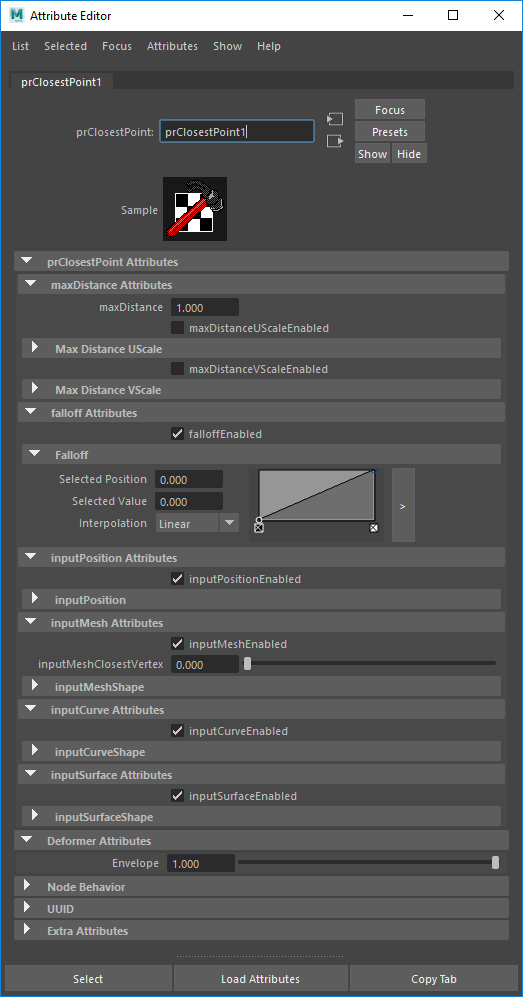
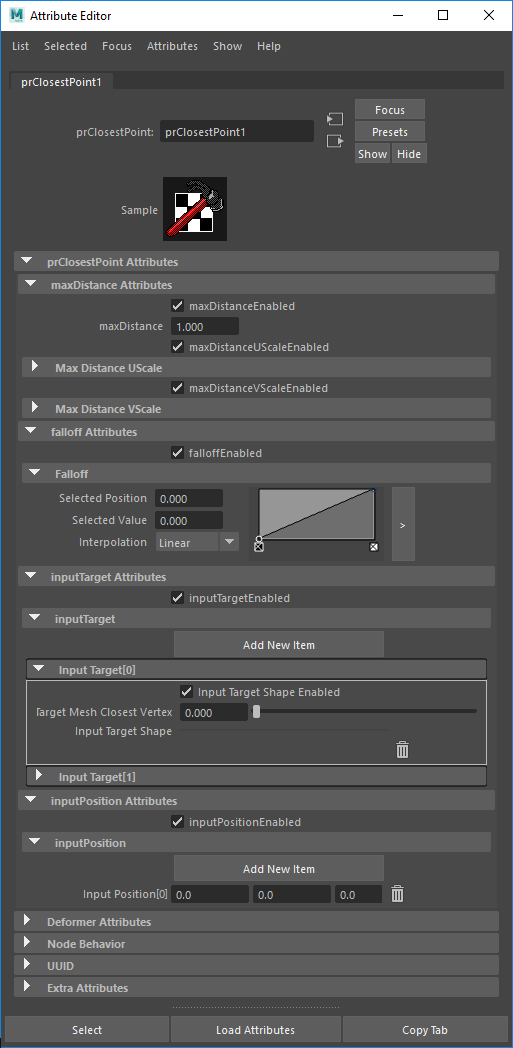
deformation local functions, updated doc pictures

diff --git a/prmaya/plugins/prClosestPoint.py b/prmaya/plugins/prClosestPoint.py
@@ -1,6 +1,6 @@
 """
 DESCRIPTION
-Deformer that moves points to closest: position / mesh shape or vertex / curve shape / nurbs-surface shape.
+Deformer that moves points to closest: position / mesh shape or mesh vertex / nurbs-curve shape / nurbs-surface shape.
 
 USE CASES
 - Modeling: Interactively snap vertices between meshes (inputTargetMeshClosestVertex attribute)
@@ -44,7 +44,6 @@ https://pazrot3d.blogspot.com/2018/10/prclosestpointpy-making-of.html
 https://www.paypal.com/cgi-bin/webscr?cmd=_s-xclick&hosted_button_id=7X4EJ8Z7NUSQW
 
 TODO
-- main deformation loop refactor
 - update doc images
 - can maxDistanceWeight be a child of weightList?
 - weightMap and inputPositions should show up in node editor
@@ -177,7 +176,6 @@ class prClosestPoint(OpenMayaMPx.MPxDeformerNode):
         
         prClosestPoint.inputTargetShapeEnabled = numericAttr.create('inputTargetShapeEnabled', 'inputTargetShapeEnabled', om.MFnNumericData.kBoolean, True)
         numericAttr.setKeyable(True)
-        prClosestPoint.addAttribute(prClosestPoint.inputTargetShapeEnabled)
         
         prClosestPoint.inputTargetShape = genericAttr.create("inputTargetShape", "inputTargetShape")
         # genericAttr.setReadable(False)
@@ -367,66 +365,73 @@ class prClosestPoint(OpenMayaMPx.MPxDeformerNode):
                 if shapeData.isNull():
                     continue
                 shapeType = targetShapeHandle.type()
-                # TODO define objects here: lambda def getClosestPoint(), lambda def getUvValues()
+                targetPoint = om.MPoint()
+                
                 if shapeType == om.MFnMeshData.kMesh:
                     shapeFn = om.MFnMesh(shapeData)
                     closestVertex = inputTargetHandle.child(self.inputTargetMeshClosestVertex).asFloat()
                     if closestVertex:
                         tempPoint = om.MPoint()
-                elif shapeType == om.MFnNurbsCurveData.kNurbsCurve:
-                    shapeFn = om.MFnNurbsCurve(shapeData)
-                elif shapeType == om.MFnNurbsSurfaceData.kNurbsSurface:
-                    shapeFn = om.MFnNurbsSurface(shapeData)
-                
-                for index, weight, point in izip(indices, weights, pointsWorldSpace):
-                    if not weight:
-                        continue
-                    # TODO targetPoint = getClosestPoint(); uValue, vValue = getUvValues()
-                    targetPoint = om.MPoint()
+                        faceVertices = om.MIntArray()
                     
-                    if shapeType == om.MFnMeshData.kMesh:
-                        shapeFn.getClosestPoint(point, targetPoint, om.MSpace.kWorld, intPtr)
+                    def getClosestPoint(startPoint):
+                        shapeFn.getClosestPoint(startPoint, targetPoint, om.MSpace.kWorld, intPtr)
                         if closestVertex:
-                            faceVertices = om.MIntArray()
                             shapeFn.getPolygonVertices(om.MScriptUtil(intPtr).asInt(), faceVertices)
                             shortestDistance = None
                             for vertexId in faceVertices:
                                 shapeFn.getPoint(vertexId, tempPoint, om.MSpace.kWorld)
-                                vertexDistance = (point - tempPoint).length()
+                                vertexDistance = (startPoint - tempPoint).length()
                                 if shortestDistance is None or vertexDistance < shortestDistance:
                                     shortestDistance = vertexDistance
                                     closestVertexPoint = om.MPoint(tempPoint)
-                            targetPoint = targetPoint * (1.0 - closestVertex) + om.MVector(closestVertexPoint * closestVertex)
-                    elif shapeType == om.MFnNurbsCurveData.kNurbsCurve:
-                        targetPoint = shapeFn.closestPoint(point, doublePtr, 0.00001, om.MSpace.kWorld)
-                    elif shapeType == om.MFnNurbsSurfaceData.kNurbsSurface:
-                        targetPoint = shapeFn.closestPoint(point, doublePtr, doublePtr2, False, 0.00001, om.MSpace.kWorld)
-                    else:
-                        # raise ValueError?
-                        continue
+                            return targetPoint * (1.0 - closestVertex) + om.MVector(closestVertexPoint * closestVertex)
+                        return targetPoint
                     
-                    delta = targetPoint - point
-                    if index in deltas and deltas[index].length() < delta.length():
-                        continue
-                    deltas[index] = targetPoint - point
-                    
-                    if maxDistanceUScaleEnabled or maxDistanceVScaleEnabled:
-                        if shapeType == om.MFnMeshData.kMesh:
-                            shapeFn.getUVAtPoint(targetPoint, float2Ptr, om.MSpace.kWorld)
+                    def setUvScaleValues(uvPoint):
+                        if maxDistanceUScaleEnabled or maxDistanceVScaleEnabled:
+                            shapeFn.getUVAtPoint(uvPoint, float2Ptr, om.MSpace.kWorld)
                             if maxDistanceUScaleEnabled:
                                 uValues[index] = float2PtrUtil.getFloat2ArrayItem(float2Ptr, 0, 0)
                             if maxDistanceVScaleEnabled:
                                 vValues[index] = float2PtrUtil.getFloat2ArrayItem(float2Ptr, 0, 1)
-                        elif shapeType == om.MFnNurbsCurveData.kNurbsCurve:
-                            if maxDistanceUScaleEnabled:
-                                uValues[index] = om.MScriptUtil.getDouble(doublePtr) / shapeFn.numSpans()
-                            if maxDistanceVScaleEnabled and index in vValues:
-                                del(vValues[index])
-                        elif shapeType == om.MFnNurbsSurfaceData.kNurbsSurface:
-                            if maxDistanceUScaleEnabled:
-                                uValues[index] = om.MScriptUtil.getDouble(doublePtr) / shapeFn.numSpansInU()
-                            if maxDistanceVScaleEnabled:
-                                vValues[index] = om.MScriptUtil.getDouble(doublePtr2) / shapeFn.numSpansInV()
+                    
+                elif shapeType == om.MFnNurbsCurveData.kNurbsCurve:
+                    shapeFn = om.MFnNurbsCurve(shapeData)
+                    
+                    def getClosestPoint(startPoint):
+                        return shapeFn.closestPoint(startPoint, doublePtr, 0.00001, om.MSpace.kWorld)
+                    
+                    def setUvScaleValues(*args):
+                        if maxDistanceUScaleEnabled:
+                            uValues[index] = om.MScriptUtil.getDouble(doublePtr) / shapeFn.numSpans()
+                        if maxDistanceVScaleEnabled and index in vValues:
+                            del vValues[index]
+                
+                elif shapeType == om.MFnNurbsSurfaceData.kNurbsSurface:
+                    shapeFn = om.MFnNurbsSurface(shapeData)
+                    
+                    def getClosestPoint(startPoint):
+                        return shapeFn.closestPoint(startPoint, doublePtr, doublePtr2, False, 0.00001, om.MSpace.kWorld)
+                    
+                    def setUvScaleValues(*args):
+                        if maxDistanceUScaleEnabled:
+                            uValues[index] = om.MScriptUtil.getDouble(doublePtr) / shapeFn.numSpansInU()
+                        if maxDistanceVScaleEnabled:
+                            vValues[index] = om.MScriptUtil.getDouble(doublePtr2) / shapeFn.numSpansInV()
+                    
+                else:
+                    raise ValueError('can never happen?')
+                
+                for index, weight, point in izip(indices, weights, pointsWorldSpace):
+                    if not weight:
+                        continue
+                    targetPoint = getClosestPoint(point)
+                    delta = targetPoint - point
+                    if index in deltas and deltas[index].length() < delta.length():
+                        continue
+                    deltas[index] = targetPoint - point
+                    setUvScaleValues(targetPoint)
         
         # maxDistance / falloff
         for vertexId, delta in deltas.iteritems():
